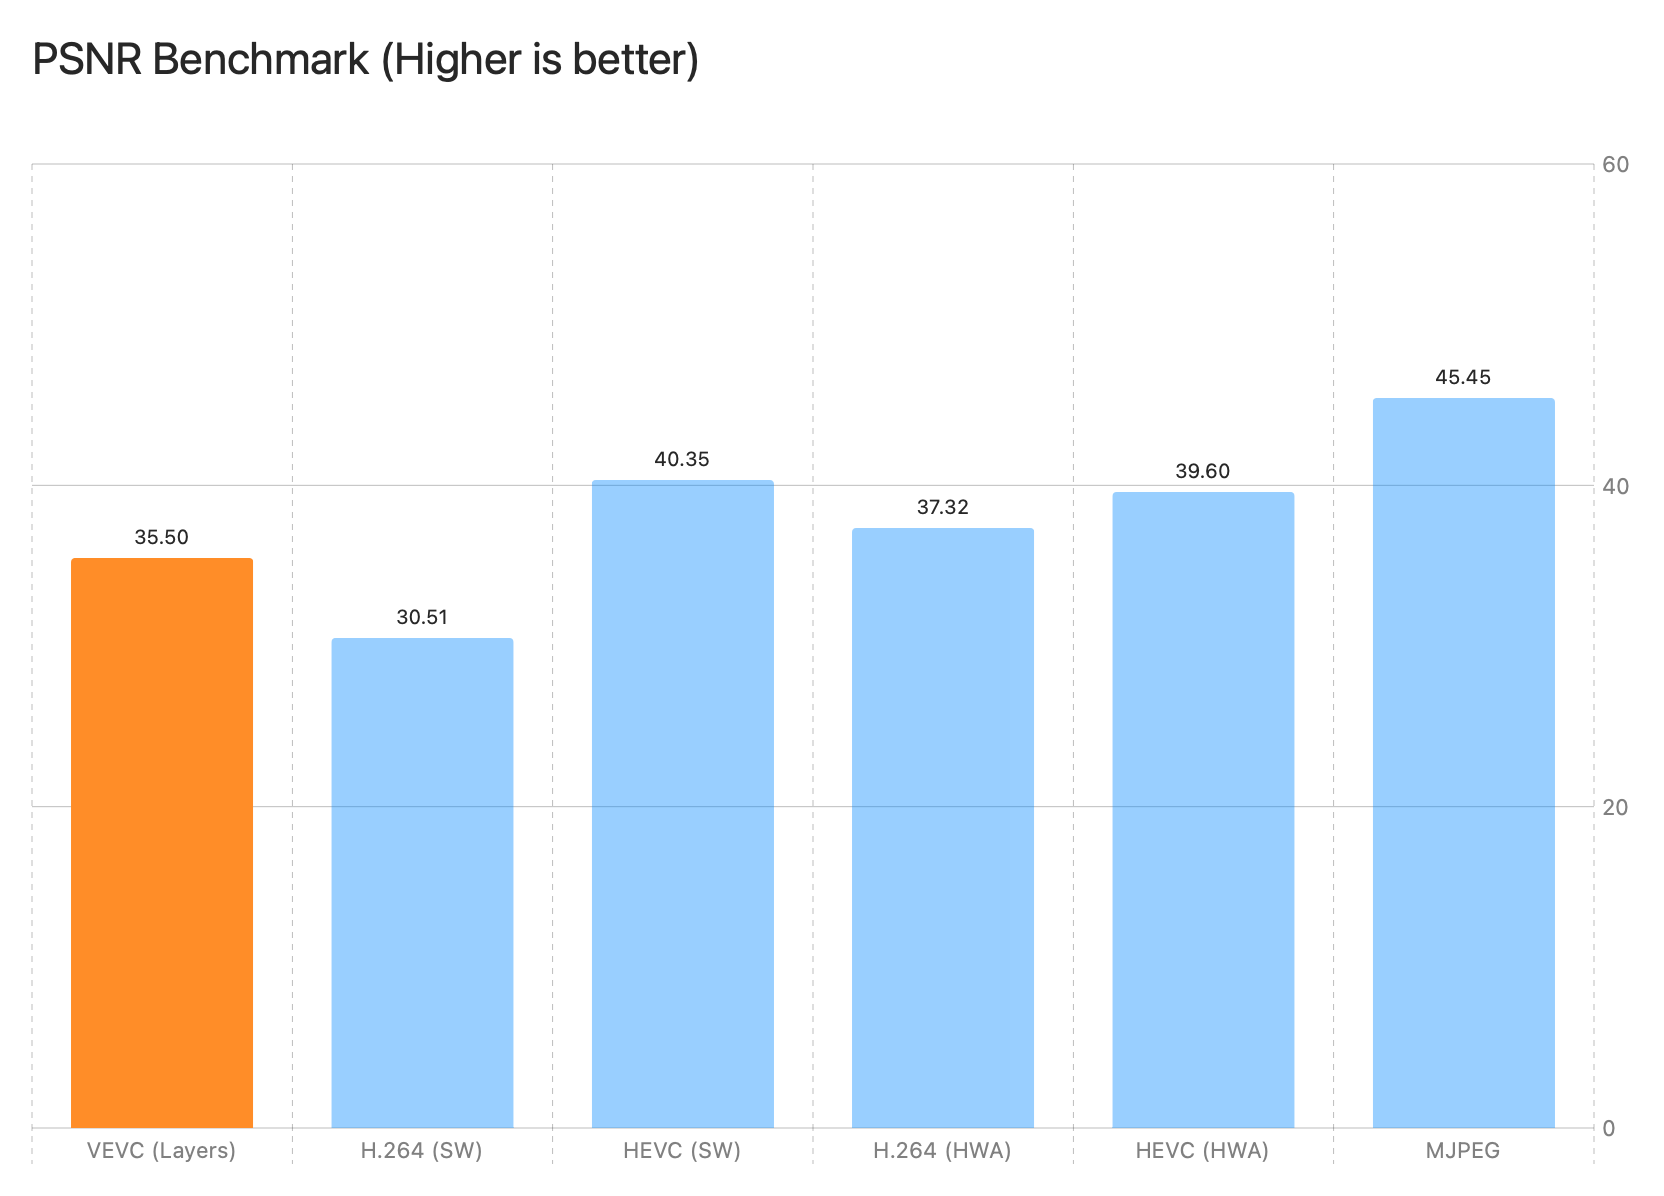
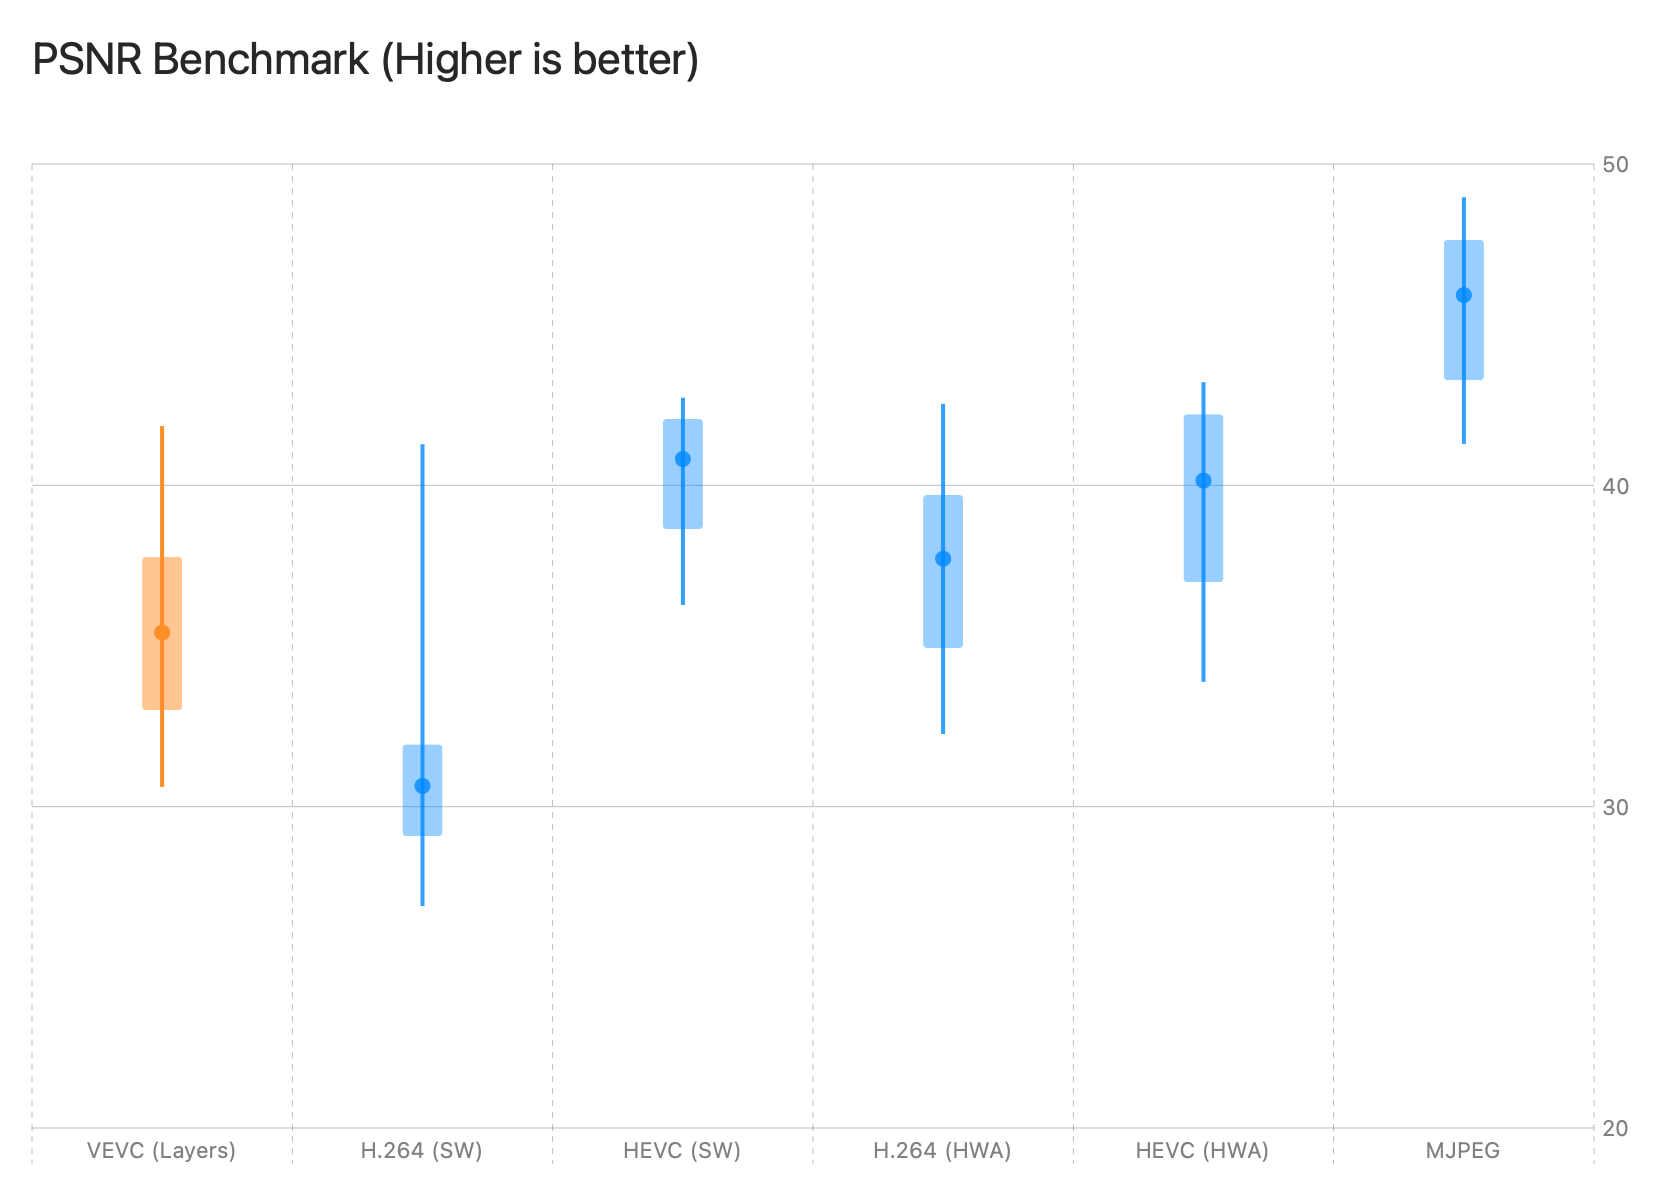
fix chart

diff --git a/Sources/example/compare.swift b/Sources/example/compare.swift
@@ -14,6 +14,7 @@ struct Config {
     var quality: Bool = false
     var outputGraph: Bool = false
     var outputVersus: Bool = false
+    var vevcOnly: Bool = false
 }
 
 struct ImageInput {
@@ -772,6 +773,8 @@ struct CompareApp {
             config.outputGraph = true
         case "-output-versus":
             config.outputVersus = true
+        case "-vevc-only":
+            config.vevcOnly = true
         case "-y4m":
             if (i + 1) < args.count {
                 y4mPath = args[i + 1]
@@ -784,7 +787,7 @@ struct CompareApp {
     }
 
     if positionalArgs.isEmpty && y4mPath == nil {
-        print("Usage: compare [-y4m <input.y4m>] [-bitrate <kbits>] [-framerate <fps>] [-zeroThreshold <threshold>] [-keyint <frames>] [-sceneThreshold <sad>] [-maxLayer <0-2>] [-quality] [-output-graph] [<input1.png> input2.png ...]")
+        print("Usage: compare [-y4m <input.y4m>] [-bitrate <kbits>] [-framerate <fps>] [-zeroThreshold <threshold>] [-keyint <frames>] [-sceneThreshold <sad>] [-maxLayer <0-2>] [-quality] [-output-graph] [-vevc-only] [<input1.png> input2.png ...]")
         exit(1)
     }
 
@@ -833,30 +836,41 @@ struct CompareApp {
             let warmupImages = Array(localImages[0..<warmupCount])
             print("Warming up (\(warmupCount) frames)...")
             let _ = try await runVEVC(images: warmupImages, config: localConfig)
-            let _ = try await runH264(images: warmupImages, config: localConfig, width: localWidth, height: localHeight)
-            let _ = try await runH264(images: warmupImages, config: localConfig, width: localWidth, height: localHeight, disableHWA: true)
-            let _ = try await runHEVC(images: warmupImages, config: localConfig, width: localWidth, height: localHeight)
-            let _ = try await runHEVC(images: warmupImages, config: localConfig, width: localWidth, height: localHeight, disableHWA: true)
-            let _ = try await runMJPEG(images: warmupImages, config: localConfig, width: localWidth, height: localHeight)
+            if !localConfig.vevcOnly {
+                let _ = try await runH264(images: warmupImages, config: localConfig, width: localWidth, height: localHeight)
+                let _ = try await runH264(images: warmupImages, config: localConfig, width: localWidth, height: localHeight, disableHWA: true)
+                let _ = try await runHEVC(images: warmupImages, config: localConfig, width: localWidth, height: localHeight)
+                let _ = try await runHEVC(images: warmupImages, config: localConfig, width: localWidth, height: localHeight, disableHWA: true)
+                let _ = try await runMJPEG(images: warmupImages, config: localConfig, width: localWidth, height: localHeight)
+            }
             print("Warmup complete.\n")
 
             print("Running vevc (layers)...")
             let vevcResult = try await runVEVC(images: localImages, config: localConfig)
             
-            print("Running H.264 (VideoToolbox HWA)...")
-            let h264Result = try await runH264(images: localImages, config: localConfig, width: localWidth, height: localHeight)
+            typealias CodecResult = (encTime: Double, decTime: Double, compSize: Int, metrics: [QualityMetrics]?, bitstream: [CMSampleBuffer])
+            var h264Result: CodecResult? = nil
+            var h264SwResult: CodecResult? = nil
+            var hevcResult: CodecResult? = nil
+            var hevcSwResult: CodecResult? = nil
+            var mjpegResult: (encTime: Double, decTime: Double, compSize: Int, metrics: [QualityMetrics]?)? = nil
             
-            print("Running H.264 (VideoToolbox SW)...")
-            let h264SwResult = try await runH264(images: localImages, config: localConfig, width: localWidth, height: localHeight, disableHWA: true)
-            
-            print("Running HEVC (VideoToolbox HWA)...")
-            let hevcResult = try await runHEVC(images: localImages, config: localConfig, width: localWidth, height: localHeight)
-            
-            print("Running HEVC (VideoToolbox SW)...")
-            let hevcSwResult = try await runHEVC(images: localImages, config: localConfig, width: localWidth, height: localHeight, disableHWA: true)
-            
-            print("Running MJPEG (VideoToolbox)...")
-            let mjpegResult = try await runMJPEG(images: localImages, config: localConfig, width: localWidth, height: localHeight)
+            if !localConfig.vevcOnly {
+                print("Running H.264 (VideoToolbox HWA)...")
+                h264Result = try await runH264(images: localImages, config: localConfig, width: localWidth, height: localHeight)
+                
+                print("Running H.264 (VideoToolbox SW)...")
+                h264SwResult = try await runH264(images: localImages, config: localConfig, width: localWidth, height: localHeight, disableHWA: true)
+                
+                print("Running HEVC (VideoToolbox HWA)...")
+                hevcResult = try await runHEVC(images: localImages, config: localConfig, width: localWidth, height: localHeight)
+                
+                print("Running HEVC (VideoToolbox SW)...")
+                hevcSwResult = try await runHEVC(images: localImages, config: localConfig, width: localWidth, height: localHeight, disableHWA: true)
+                
+                print("Running MJPEG (VideoToolbox)...")
+                mjpegResult = try await runMJPEG(images: localImages, config: localConfig, width: localWidth, height: localHeight)
+            }
             
             func printStats(name: String, encTime: Double, decTime: Double, compSize: Int, metrics: [QualityMetrics]?, count: Int, rawSizeKB: Double) -> CodecBenchmarkResult {
                 let encMs = encTime * 1000
@@ -870,31 +884,39 @@ struct CompareApp {
                 print(String(format: "  Decode : %7.2f ms (%.2f fps) - %.2f ms / frame", decMs, decFps, decMs / Double(count)))
                 print(String(format: "  Size   : %7.2f KB (%.2f%% of raw %.2f KB)", sizeKB, (sizeKB / rawSizeKB) * 100.0, rawSizeKB))
                 
-                var avgPsnr: Double? = nil
-                var avgSsim: Double? = nil
+                var statsOut: QualityStats? = nil
                 if let stats = calculateQualityStats(metrics: metrics ?? []) {
-                    avgPsnr = stats.avgPSNR
-                    avgSsim = stats.avgSSIM
+                    statsOut = stats
                     print(String(format: "  PSNR   : Avg: %5.2f | Min: %5.2f | Max: %5.2f | 50%%: %5.2f | 90%%: %5.2f | SD: %5.2f", 
                                 stats.avgPSNR, stats.minPSNR, stats.maxPSNR, stats.p50PSNR, stats.p90PSNR, stats.stddevPSNR))
                     print(String(format: "  SSIM   : Avg: %5.4f | Min: %5.4f | Max: %5.4f | 50%%: %5.4f | 90%%: %5.4f | SD: %5.4f", 
                                 stats.avgSSIM, stats.minSSIM, stats.maxSSIM, stats.p50SSIM, stats.p90SSIM, stats.stddevSSIM))
                 }
                 
-                return CodecBenchmarkResult(name: name, encTimeMs: encMs / Double(count), decTimeMs: decMs / Double(count), sizeKB: sizeKB, avgPSNR: avgPsnr, avgSSIM: avgSsim)
+                return CodecBenchmarkResult(name: name, encTimeMs: encMs / Double(count), decTimeMs: decMs / Double(count), sizeKB: sizeKB, stats: statsOut)
             }
             
             print("\n--- Results ---")
             var chartResults: [CodecBenchmarkResult] = []
             chartResults.append(printStats(name: "VEVC (Layers)", encTime: vevcResult.encTime, decTime: vevcResult.decTime, compSize: vevcResult.compSize, metrics: vevcResult.metrics, count: localImages.count, rawSizeKB: rawTotalSizeKB))
             
-            chartResults.append(printStats(name: "H.264 (SW)", encTime: h264SwResult.encTime, decTime: h264SwResult.decTime, compSize: h264SwResult.compSize, metrics: h264SwResult.metrics, count: localImages.count, rawSizeKB: rawTotalSizeKB))
-            chartResults.append(printStats(name: "HEVC (SW)", encTime: hevcSwResult.encTime, decTime: hevcSwResult.decTime, compSize: hevcSwResult.compSize, metrics: hevcSwResult.metrics, count: localImages.count, rawSizeKB: rawTotalSizeKB))
-            
-            chartResults.append(printStats(name: "H.264 (HWA)", encTime: h264Result.encTime, decTime: h264Result.decTime, compSize: h264Result.compSize, metrics: h264Result.metrics, count: localImages.count, rawSizeKB: rawTotalSizeKB))
-            chartResults.append(printStats(name: "HEVC (HWA)", encTime: hevcResult.encTime, decTime: hevcResult.decTime, compSize: hevcResult.compSize, metrics: hevcResult.metrics, count: localImages.count, rawSizeKB: rawTotalSizeKB))
-            
-            chartResults.append(printStats(name: "MJPEG", encTime: mjpegResult.encTime, decTime: mjpegResult.decTime, compSize: mjpegResult.compSize, metrics: mjpegResult.metrics, count: localImages.count, rawSizeKB: rawTotalSizeKB))
+            if !localConfig.vevcOnly {
+                if let h264Sw = h264SwResult {
+                    chartResults.append(printStats(name: "H.264 (SW)", encTime: h264Sw.encTime, decTime: h264Sw.decTime, compSize: h264Sw.compSize, metrics: h264Sw.metrics, count: localImages.count, rawSizeKB: rawTotalSizeKB))
+                }
+                if let hevcSw = hevcSwResult {
+                    chartResults.append(printStats(name: "HEVC (SW)", encTime: hevcSw.encTime, decTime: hevcSw.decTime, compSize: hevcSw.compSize, metrics: hevcSw.metrics, count: localImages.count, rawSizeKB: rawTotalSizeKB))
+                }
+                if let h264 = h264Result {
+                    chartResults.append(printStats(name: "H.264 (HWA)", encTime: h264.encTime, decTime: h264.decTime, compSize: h264.compSize, metrics: h264.metrics, count: localImages.count, rawSizeKB: rawTotalSizeKB))
+                }
+                if let hevc = hevcResult {
+                    chartResults.append(printStats(name: "HEVC (HWA)", encTime: hevc.encTime, decTime: hevc.decTime, compSize: hevc.compSize, metrics: hevc.metrics, count: localImages.count, rawSizeKB: rawTotalSizeKB))
+                }
+                if let mjpeg = mjpegResult {
+                    chartResults.append(printStats(name: "MJPEG", encTime: mjpeg.encTime, decTime: mjpeg.decTime, compSize: mjpeg.compSize, metrics: mjpeg.metrics, count: localImages.count, rawSizeKB: rawTotalSizeKB))
+                }
+            }
             print("---------------")
             
             if localConfig.outputGraph {
@@ -907,8 +929,8 @@ struct CompareApp {
                 print("\n--- Output Versus Images ---")
                 
                 let vevcMinIdx = vevcResult.metrics?.enumerated().min(by: { $0.element.ssim < $1.element.ssim })?.offset ?? 0
-                let h264MinIdx = h264SwResult.metrics?.enumerated().min(by: { $0.element.ssim < $1.element.ssim })?.offset ?? 0
-                let hevcMinIdx = hevcSwResult.metrics?.enumerated().min(by: { $0.element.ssim < $1.element.ssim })?.offset ?? 0
+                let h264MinIdx = h264SwResult?.metrics?.enumerated().min(by: { $0.element.ssim < $1.element.ssim })?.offset ?? 0
+                let hevcMinIdx = hevcSwResult?.metrics?.enumerated().min(by: { $0.element.ssim < $1.element.ssim })?.offset ?? 0
                 let sec14Idx = min(14 * localConfig.framerate, localImages.count - 1)
                 
                 let targetIndices: Set<Int> = [vevcMinIdx, h264MinIdx, hevcMinIdx, sec14Idx]
@@ -917,11 +939,17 @@ struct CompareApp {
                 print("Extracting VEVC frames...")
                 let vevcExtracted = try await extractVEVCFrames(bitstream: vevcResult.bitstream, config: localConfig, indices: targetIndices)
                 
-                print("Extracting H.264 frames...")
-                let h264Extracted = try extractVTFrames(bitstream: h264SwResult.bitstream, disableHWA: false, indices: targetIndices)
+                var h264Extracted: [Int: YCbCrImage] = [:]
+                if let res = h264SwResult {
+                    print("Extracting H.264 frames...")
+                    h264Extracted = try extractVTFrames(bitstream: res.bitstream, disableHWA: false, indices: targetIndices)
+                }
                 
-                print("Extracting HEVC frames...")
-                let hevcExtracted = try extractVTFrames(bitstream: hevcSwResult.bitstream, disableHWA: false, indices: targetIndices)
+                var hevcExtracted: [Int: YCbCrImage] = [:]
+                if let res = hevcSwResult {
+                    print("Extracting HEVC frames...")
+                    hevcExtracted = try extractVTFrames(bitstream: res.bitstream, disableHWA: false, indices: targetIndices)
+                }
                 
                 let pairs: [(name: String, idx: Int)] = [
                     ("vevc_min", vevcMinIdx),

diff --git a/Sources/example/Chart.swift b/Sources/example/Chart.swift
@@ -8,8 +8,7 @@ struct CodecBenchmarkResult {
     let encTimeMs: Double
     let decTimeMs: Double
     let sizeKB: Double
-    let avgPSNR: Double?
-    let avgSSIM: Double?
+    let stats: QualityStats?
 }
 
 @available(macOS 13.0, *)
@@ -100,7 +99,7 @@ struct PsnrChart: View {
     let results: [CodecBenchmarkResult]
     
     var body: some View {
-        let validResults = results.filter { $0.avgPSNR != nil }
+        let validResults = results.filter { $0.stats != nil }
         
         VStack(alignment: .leading) {
             Text("PSNR Benchmark (Higher is better)")
@@ -109,15 +108,31 @@ struct PsnrChart: View {
             
             Chart(validResults, id: \.name) { res in
                 let isVEVC = res.name.contains("VEVC")
+                let stats = res.stats!
+                let color = isVEVC ? Color.orange : Color.blue.opacity(0.8)
+                
+                RuleMark(
+                    x: .value("Codec", res.name),
+                    yStart: .value("Min", stats.minPSNR),
+                    yEnd: .value("Max", stats.maxPSNR)
+                )
+                .lineStyle(StrokeStyle(lineWidth: 2))
+                .foregroundStyle(color)
+                
                 BarMark(
                     x: .value("Codec", res.name),
-                    y: .value("PSNR (dB)", res.avgPSNR!)
+                    yStart: .value("Avg-SD", stats.avgPSNR - stats.stddevPSNR),
+                    yEnd: .value("Avg+SD", stats.avgPSNR + stats.stddevPSNR),
+                    width: .fixed(20)
                 )
-                .foregroundStyle(isVEVC ? Color.orange : Color.blue.opacity(0.4))
-                .annotation(position: .top) {
-                    Text(String(format: "%.2f", res.avgPSNR!))
-                        .font(.caption)
-                }
+                .foregroundStyle(color.opacity(0.5))
+                
+                PointMark(
+                    x: .value("Codec", res.name),
+                    y: .value("Median", stats.p50PSNR)
+                )
+                .symbol(.circle)
+                .foregroundStyle(color)
             }
             .chartYScale(domain: .automatic(includesZero: false))
             .frame(width: 800, height: 500)
@@ -132,7 +147,7 @@ struct SsimChart: View {
     let results: [CodecBenchmarkResult]
     
     var body: some View {
-        let validResults = results.filter { $0.avgSSIM != nil }
+        let validResults = results.filter { $0.stats != nil }
         
         VStack(alignment: .leading) {
             Text("SSIM Benchmark (Closer to 1.0 is better)")
@@ -141,15 +156,31 @@ struct SsimChart: View {
             
             Chart(validResults, id: \.name) { res in
                 let isVEVC = res.name.contains("VEVC")
+                let stats = res.stats!
+                let color = isVEVC ? Color.orange : Color.green.opacity(0.8)
+                
+                RuleMark(
+                    x: .value("Codec", res.name),
+                    yStart: .value("Min", stats.minSSIM),
+                    yEnd: .value("Max", stats.maxSSIM)
+                )
+                .lineStyle(StrokeStyle(lineWidth: 2))
+                .foregroundStyle(color)
+                
                 BarMark(
                     x: .value("Codec", res.name),
-                    y: .value("SSIM", res.avgSSIM!)
+                    yStart: .value("Avg-SD", stats.avgSSIM - stats.stddevSSIM),
+                    yEnd: .value("Avg+SD", stats.avgSSIM + stats.stddevSSIM),
+                    width: .fixed(20)
                 )
-                .foregroundStyle(isVEVC ? Color.orange : Color.green.opacity(0.4))
-                .annotation(position: .top) {
-                    Text(String(format: "%.4f", res.avgSSIM!))
-                        .font(.caption)
-                }
+                .foregroundStyle(color.opacity(0.5))
+                
+                PointMark(
+                    x: .value("Codec", res.name),
+                    y: .value("Median", stats.p50SSIM)
+                )
+                .symbol(.circle)
+                .foregroundStyle(color)
             }
             .chartYScale(domain: .automatic(includesZero: false))
             .frame(width: 800, height: 500)
@@ -176,7 +207,7 @@ func generateAndSaveCharts(results: [CodecBenchmarkResult], outDir: String = "do
     }
     
     // PSNR Chart
-    if results.contains(where: { $0.avgPSNR != nil }) {
+    if results.contains(where: { $0.stats != nil }) {
         let psnrView = PsnrChart(results: results)
         let psnrRenderer = ImageRenderer(content: psnrView)
         psnrRenderer.scale = 2.0
@@ -191,7 +222,7 @@ func generateAndSaveCharts(results: [CodecBenchmarkResult], outDir: String = "do
     }
 
     // SSIM Chart
-    if results.contains(where: { $0.avgSSIM != nil }) {
+    if results.contains(where: { $0.stats != nil }) {
         let ssimView = SsimChart(results: results)
         let ssimRenderer = ImageRenderer(content: ssimView)
         ssimRenderer.scale = 2.0

diff --git a/Sources/example/Quality.swift b/Sources/example/Quality.swift
@@ -3,12 +3,12 @@ import CoreMedia
 import VideoToolbox
 import vevc
 
-public struct QualityMetrics {
+public struct QualityMetrics: Sendable {
     public let psnr: Double
     public let ssim: Double
 }
 
-public struct QualityStats {
+public struct QualityStats: Sendable {
     public let avgPSNR: Double
     public let minPSNR: Double
     public let maxPSNR: Double
